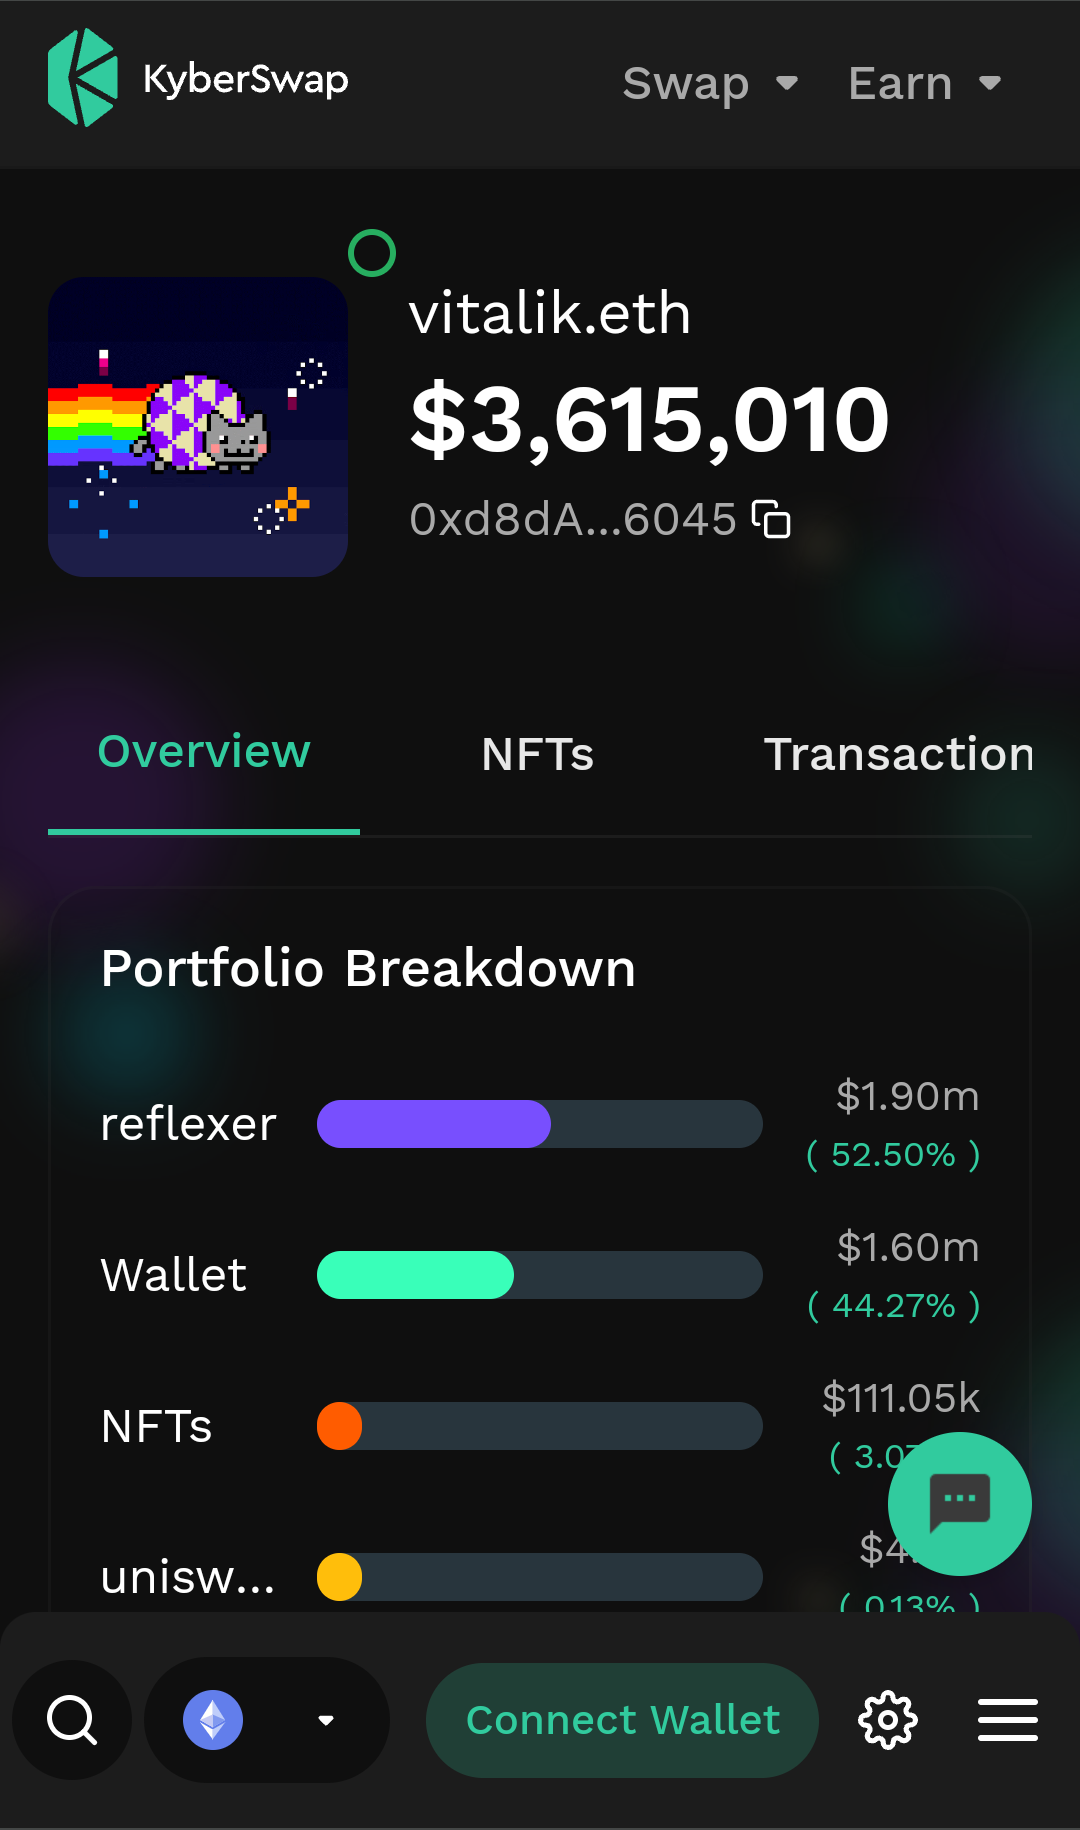
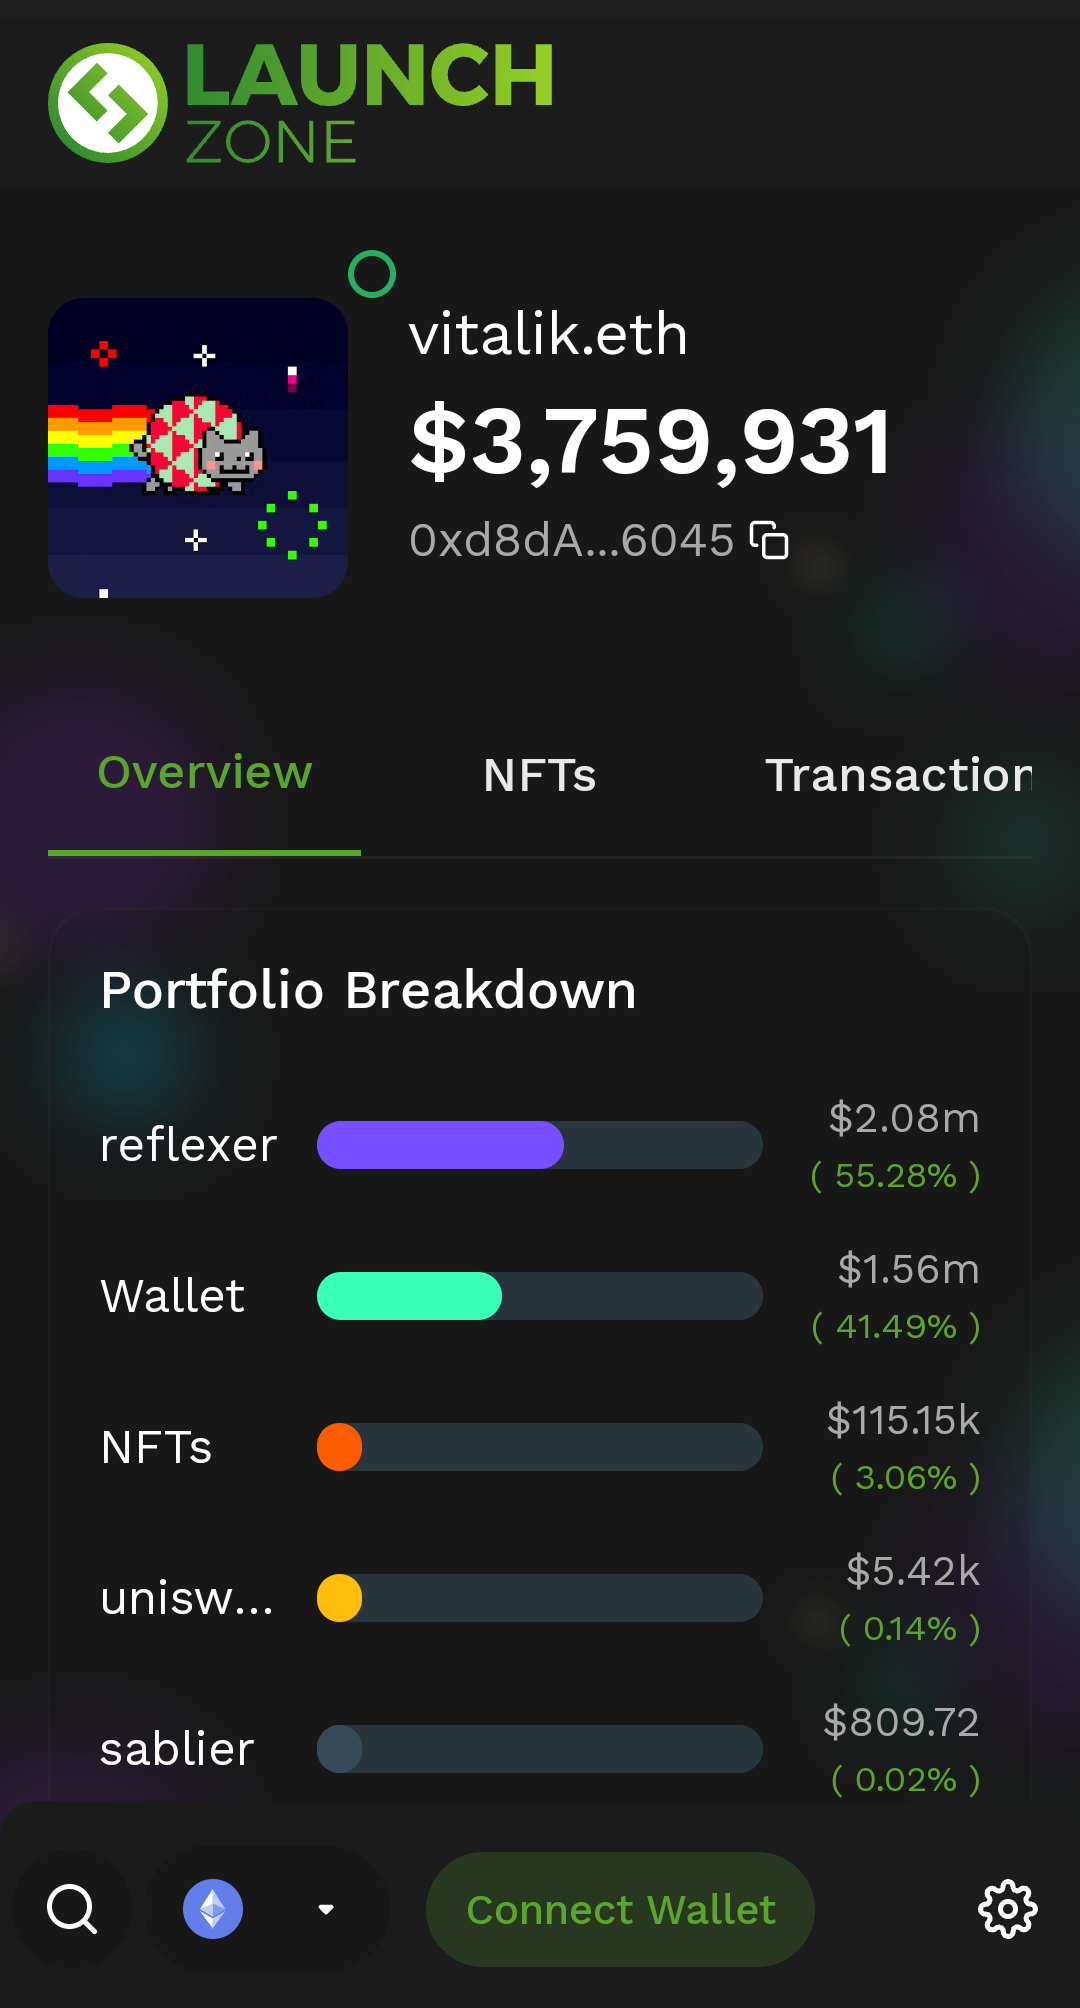
update UI

diff --git a/src/components/Footer/Footer.tsx b/src/components/Footer/Footer.tsx
@@ -1,17 +1,12 @@
 import { Trans, t } from '@lingui/macro'
-import React from 'react'
 import { useMedia } from 'react-use'
 import { Flex, Text } from 'rebass'
 import styled from 'styled-components'
 
+import Lz from 'assets/svg/faverments.svg'
 import { Telegram } from 'components/Icons'
-import Discord from 'components/Icons/Discord'
-import Medium from 'components/Icons/Medium'
-import PoweredByIconDark from 'components/Icons/PoweredByIconDark'
-import PoweredByIconLight from 'components/Icons/PoweredByIconLight'
 import TwitterIcon from 'components/Icons/TwitterIcon'
 import InfoHelper from 'components/InfoHelper'
-import { KYBER_NETWORK_DISCORD_URL, KYBER_NETWORK_TWITTER_URL } from 'constants/index'
 import useTheme from 'hooks/useTheme'
 import { useIsDarkMode } from 'state/user/hooks'
 import { ExternalLink, ExternalLinkNoLineHeight } from 'theme'
@@ -85,18 +80,18 @@ export const FooterSocialLink = () => {
   const theme = useTheme()
   return (
     <Flex alignItems="center" justifyContent="center" sx={{ gap: '24px' }}>
-      <ExternalLinkNoLineHeight href="https://t.me/kybernetwork">
+      <ExternalLinkNoLineHeight href="https://t.me/lzofficial">
         <Telegram size={16} color={theme.subText} />
       </ExternalLinkNoLineHeight>
-      <ExternalLinkNoLineHeight href={KYBER_NETWORK_TWITTER_URL}>
+      <ExternalLinkNoLineHeight href="https://twitter.com/launchzoneann">
         <TwitterIcon color={theme.subText} />
       </ExternalLinkNoLineHeight>
-      <ExternalLinkNoLineHeight href={KYBER_NETWORK_DISCORD_URL}>
+      {/* <ExternalLinkNoLineHeight href={KYBER_NETWORK_DISCORD_URL}>
         <Discord width={16} height={12} color={theme.subText} />
-      </ExternalLinkNoLineHeight>
-      <ExternalLinkNoLineHeight href={`https://blog.kyber.network`}>
+      </ExternalLinkNoLineHeight> */}
+      {/* <ExternalLinkNoLineHeight href={`https://blog.kyber.network`}>
         <Medium />
-      </ExternalLinkNoLineHeight>
+      </ExternalLinkNoLineHeight> */}
     </Flex>
   )
 }
@@ -113,8 +108,9 @@ function Footer() {
             <Text marginRight="6px">
               <Trans>Powered By</Trans>
             </Text>
-            <ExternalLink href="https://kyber.network" style={{ display: 'flex' }}>
-              {isDarkMode ? <PoweredByIconDark width={48} /> : <PoweredByIconLight width={48} />}
+            <ExternalLink href="https://www.launchzone.vn" style={{ display: 'flex' }}>
+              {/* {isDarkMode ? <PoweredByIconDark width={48} /> : <PoweredByIconLight width={48} />} */}
+              <img src={Lz} alt="logo" width="48" />
             </ExternalLink>
           </Item>
           <Separator />
@@ -124,7 +120,7 @@ function Footer() {
               <Trans>Audited By</Trans>
               {!above768 && <InfoHelper size={14} text={t`Covers smart-contracts`} placement="top" />}
             </Text>
-            <ExternalLink href="https://chainsecurity.com/security-audit/kyberswap-elastic" style={{ display: 'flex' }}>
+            <div style={{ display: 'flex' }}>
               <img
                 src={
                   !isDarkMode
@@ -134,7 +130,7 @@ function Footer() {
                 alt=""
                 width="98px"
               />
-            </ExternalLink>
+            </div>
             {above768 && <InfoHelper size={14} text={t`Covers smart-contracts`} placement="top" />}
           </Item>
         </InfoWrapper>

diff --git a/src/components/WalletModal/index.tsx b/src/components/WalletModal/index.tsx
@@ -413,11 +413,11 @@ export default function WalletModal({
           <input type="checkbox" checked={isAccepted} onChange={handleAccept} style={{ marginRight: '12px' }} />
           <ToSText>
             <Trans>Accept</Trans>{' '}
-            <ExternalLink href="/15022022KyberSwapTermsofUse.pdf">
+            <ExternalLink href="#">
               <Trans>Terms of Use</Trans>
             </ExternalLink>{' '}
             <Trans>and</Trans>{' '}
-            <ExternalLink href="http://files.dmm.exchange/privacy.pdf">
+            <ExternalLink href="#">
               <Trans>Privacy Policy</Trans>
             </ExternalLink>
           </ToSText>
